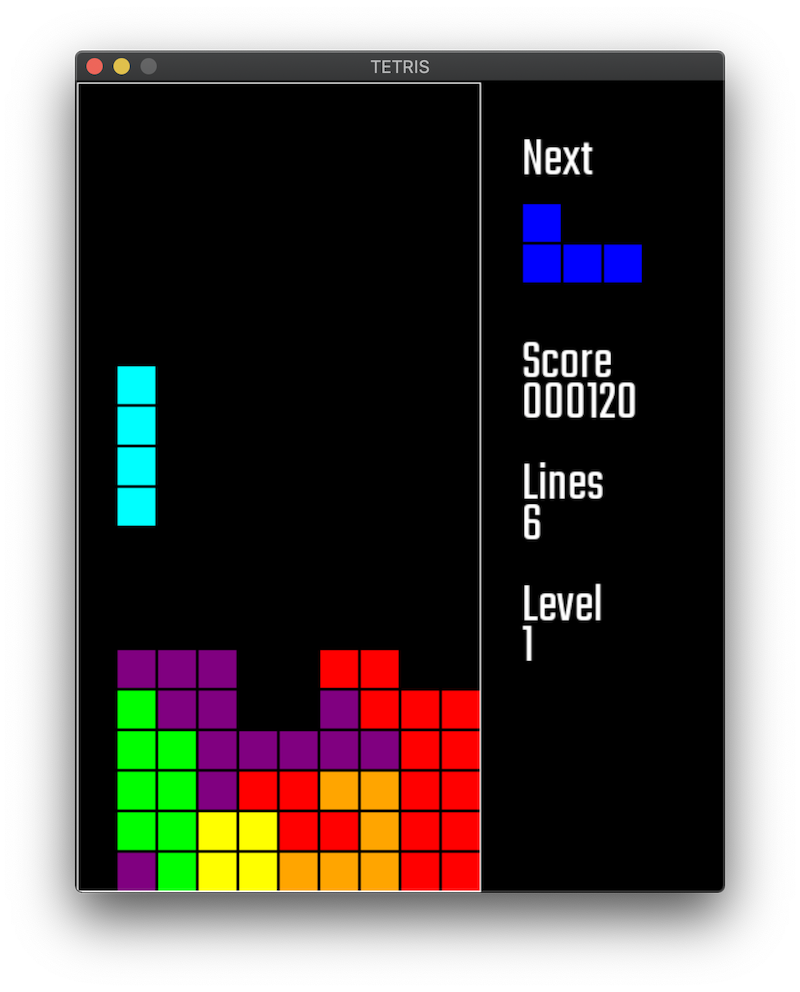
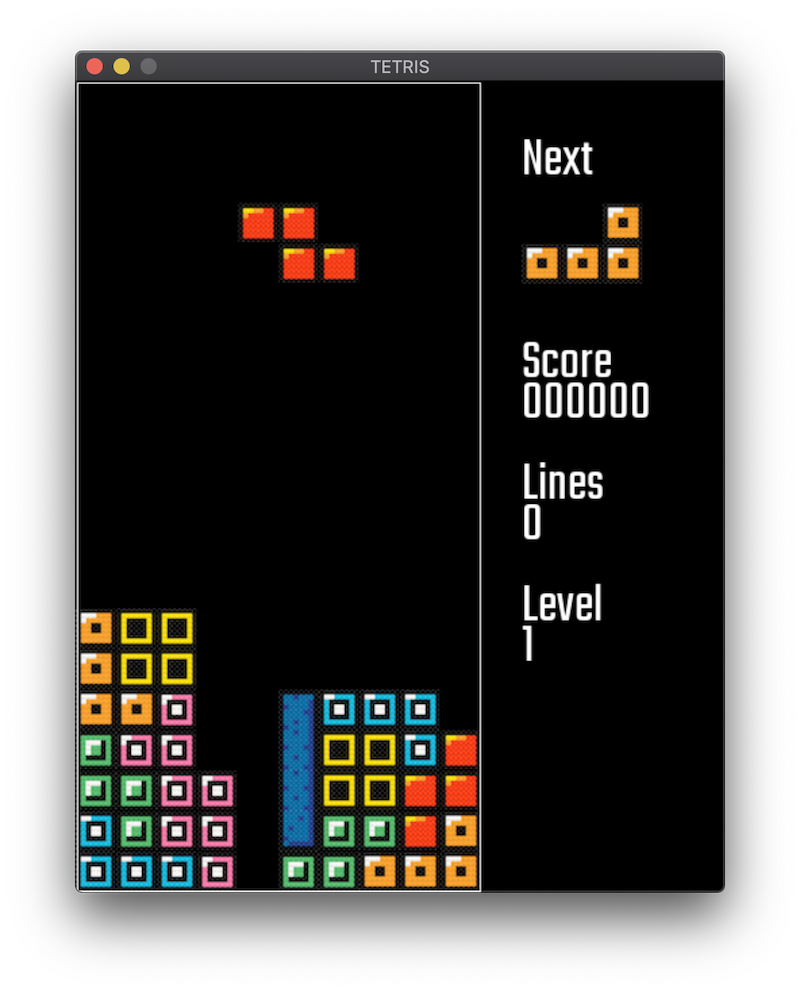
Add tetriminos image sprites

diff --git a/tetris/sprites.py b/tetris/sprites.py
@@ -4,17 +4,11 @@ from . import settings
 
 
 class Block(pygame.sprite.Sprite):
-    def __init__(self, color, xy, *args, **kwargs):
+    def __init__(self, image, xy, *args, **kwargs):
         super().__init__(*args, **kwargs)
-        w, h = (settings.BLOCK, settings.BLOCK)
-        image = pygame.Surface((w, h))
-        image.fill(settings.BLACK)
-        image.set_colorkey(settings.BLACK)
-        pygame.draw.rect(image, color, pygame.Rect((1, 1), (w - 2, h - 2)))
-        self.image = image.convert()
+        self.image = image
         self.rect = self.image.get_rect()
         self.rect.topleft = xy
-        self.color = color
         self.x, self.y = xy
 
     def update(self):
@@ -22,10 +16,8 @@ class Block(pygame.sprite.Sprite):
 
 
 class Piece(pygame.sprite.Sprite):
-    def __init__(self, shapes, color, xy, game, *args, **kwargs):
+    def __init__(self, xy, game, *args, **kwargs):
         super().__init__(*args, **kwargs)
-        self.shapes = shapes
-        self.color = color
         self.x, self.y = xy
         self.game = game
         self.rotation = 0
@@ -50,7 +42,7 @@ class Piece(pygame.sprite.Sprite):
 
     @property
     def blocks(self):
-        return tuple(Block(self.color, p) for p in self.positions)
+        return tuple(Block(self.img, p) for p in self.positions)
 
     def move(self, xy):
         self.x, self.y = xy
@@ -122,70 +114,112 @@ class Piece(pygame.sprite.Sprite):
         for x in range(rows):
             for y in range(cols):
                 if shape[x][y]:
-                    coord = (y * settings.BLOCK + 1, x * settings.BLOCK + 1)
-                    block = (settings.BLOCK - 2, settings.BLOCK - 2)
-                    rect = pygame.Rect(coord, block)
-                    pygame.draw.rect(image, self.color, rect)
+                    coord = (y * settings.BLOCK, x * settings.BLOCK)
+                    image.blit(self.img, coord)
         self.image = image.convert()
         self.rect = self.image.get_rect()
         self.rect.topleft = (self.x, self.y)
 
 
 class S_(Piece):
-    def __init__(self, xy, *args, **kwargs):
-        shapes = (((0, 1, 1), (1, 1, 0)), ((1, 0), (1, 1), (0, 1)))
-        super().__init__(shapes, settings.GREEN, xy, *args, **kwargs)
+    def __init__(self, xy, game, *args, **kwargs):
+        self.shapes = (((0, 1, 1), (1, 1, 0)), ((1, 0), (1, 1), (0, 1)))
+        self.img = game.get_image("sqr03.png")
+        super().__init__(xy, game, *args, **kwargs)
 
 
 class Z_(Piece):
-    def __init__(self, xy, *args, **kwargs):
-        shapes = (((1, 1, 0), (0, 1, 1)), ((0, 1), (1, 1), (1, 0)))
-        super().__init__(shapes, settings.RED, xy, *args, **kwargs)
-
-
-class I_(Piece):
-    def __init__(self, xy, *args, **kwargs):
-        shapes = (((1, 1, 1, 1),), ((1,), (1,), (1,), (1,)))
-        super().__init__(shapes, settings.CYAN, xy, *args, **kwargs)
+    def __init__(self, xy, game, *args, **kwargs):
+        self.shapes = (((1, 1, 0), (0, 1, 1)), ((0, 1), (1, 1), (1, 0)))
+        self.img = game.get_image("sqr01.png")
+        super().__init__(xy, game, *args, **kwargs)
 
 
 class O_(Piece):
-    def __init__(self, xy, *args, **kwargs):
-        shapes = (((1, 1), (1, 1)),)
-        super().__init__(shapes, settings.YELLOW, xy, *args, **kwargs)
+    def __init__(self, xy, game, *args, **kwargs):
+        self.shapes = (((1, 1), (1, 1)),)
+        self.img = game.get_image("sqr07.png")
+        super().__init__(xy, game, *args, **kwargs)
 
 
 class J_(Piece):
-    def __init__(self, xy, *args, **kwargs):
-        shapes = (
+    def __init__(self, xy, game, *args, **kwargs):
+        self.shapes = (
             ((1, 0, 0), (1, 1, 1)),
             ((1, 1), (1, 0), (1, 0)),
             ((1, 1, 1), (0, 0, 1)),
             ((0, 1), (0, 1), (1, 1)),
         )
-        super().__init__(shapes, settings.BLUE, xy, *args, **kwargs)
+        self.img = game.get_image("sqr08.png")
+        super().__init__(xy, game, *args, **kwargs)
 
 
 class L_(Piece):
-    def __init__(self, xy, *args, **kwargs):
-        shapes = (
+    def __init__(self, xy, game, *args, **kwargs):
+        self.shapes = (
             ((0, 0, 1), (1, 1, 1)),
             ((1, 0), (1, 0), (1, 1)),
             ((1, 1, 1), (1, 0, 0)),
             ((1, 1), (0, 1), (0, 1)),
         )
-        super().__init__(shapes, settings.ORANGE, xy, *args, **kwargs)
+        self.img = game.get_image("sqr09.png")
+        super().__init__(xy, game, *args, **kwargs)
 
 
 class T_(Piece):
-    def __init__(self, xy, *args, **kwargs):
-        shapes = (
+    def __init__(self, xy, game, *args, **kwargs):
+        self.shapes = (
             ((0, 1, 0), (1, 1, 1)),
             ((1, 0), (1, 1), (1, 0)),
             ((1, 1, 1), (0, 1, 0)),
             ((0, 1), (1, 1), (0, 1)),
         )
-        super().__init__(shapes, settings.PURPLE, xy, *args, **kwargs)
+        self.img = game.get_image("sqr02.png")
+        super().__init__(xy, game, *args, **kwargs)
+
+
+class I_(Piece):
+    def __init__(self, xy, game, *args, **kwargs):
+        self.shapes = (((1, 1, 1, 1),), ((1,), (1,), (1,), (1,)))
+        self.img = [
+            game.get_image("sqr04.png"),
+            game.get_image("sqr05.png"),
+            game.get_image("sqr06.png"),
+            game.get_image("sqr14.png"),
+            game.get_image("sqr15.png"),
+            game.get_image("sqr16.png"),
+        ]
+        super().__init__(xy, game, *args, **kwargs)
+
+    @property
+    def blocks(self):
+        imgs = self.img[:3] if len(self.shape) == 1 else self.img[3:]
+        idx = (0, 1, 1, 2)
+        return tuple(
+            Block(imgs[idx[i]], p) for i, p in enumerate(self.positions)
+        )
+
+    def draw(self):
+        shape = self.shape
+        rows = len(shape)
+        cols = len(shape[0])
+        size = (cols * settings.BLOCK, rows * settings.BLOCK)
+        image = pygame.Surface(size)
+        image.fill(settings.BLACK)
+        image.set_colorkey(settings.BLACK)
+        imgs = self.img[:3] if rows == 1 else self.img[3:]
+        coords = [
+            (y * settings.BLOCK, x * settings.BLOCK)
+            for x in range(rows)
+            for y in range(cols)
+        ]
+        image.blit(imgs[0], coords[0])
+        image.blit(imgs[1], coords[1])
+        image.blit(imgs[1], coords[2])
+        image.blit(imgs[2], coords[3])
+        self.image = image.convert()
+        self.rect = self.image.get_rect()
+        self.rect.topleft = (self.x, self.y)
 
 
 class SplashScreen(pygame.sprite.Sprite):

diff --git a/tetris/game.py b/tetris/game.py
@@ -1,3 +1,4 @@
+import json
 import random
 from os import path
 
@@ -28,6 +29,19 @@ class Game:
             sound: pygame.mixer.Sound(path.join(settings.SFX, f"{sound}.wav"))
             for sound in ("explode", "freeze", "rotate")
         }
+        self.sprite_sheet = pygame.image.load(settings.SPRITE_SHEET).convert()
+        self.sprite_sheet_info = json.load(open(settings.SPRITE_SHEET_INFO))
+
+    def get_image(self, file_name):
+        for item in self.sprite_sheet_info["frames"]:
+            if item["filename"] == file_name:
+                x, y = item["frame"]["x"], item["frame"]["y"]
+                width, height = item["frame"]["w"], item["frame"]["h"]
+                image = pygame.Surface((width, height))
+                image.blit(self.sprite_sheet, (0, 0), (x, y, width, height))
+                image.convert()
+                image.set_colorkey(settings.BLACK)
+                return image
 
     def new_piece(self):
         piece = random.choice(self.pieces)

diff --git a/tetris/settings.py b/tetris/settings.py
@@ -11,13 +11,8 @@ WIN_SIZE = (WIDTH, HEIGHT)
 BORDER = ((1, 1), (AREA - 1, 1), (AREA - 1, HEIGHT - 1), (1, HEIGHT - 1))
 BLACK = (0, 0, 0)
 WHITE = (255, 255, 255)
-RED = (255, 0, 0)
-GREEN = (0, 255, 0)
-BLUE = (0, 0, 255)
-YELLOW = (255, 255, 0)
-CYAN = (0, 255, 255)
-ORANGE = (255, 165, 0)
-PURPLE = (128, 0, 128)
 ASSETS_PATH = path.join(path.dirname(__file__), "assets")
 FONT = path.join(ASSETS_PATH, "font", "Teko-Regular.ttf")
 SFX = path.join(ASSETS_PATH, "sfx")
+SPRITE_SHEET = path.join(ASSETS_PATH, "img", "sprite_sheet.png")
+SPRITE_SHEET_INFO = path.join(ASSETS_PATH, "img", "sprite_sheet.json")

diff --git a/README.rst b/README.rst
@@ -30,3 +30,8 @@ Controls
 --------
 
 Use the arrow keys to control the pieces.
+
+Credits
+-------
+
+* Tetriminos image sprites taken from `here <https://crossstitchquest.net/2020/03/12/free-cat-tetris-cross-stitch-pattern/>`_.
